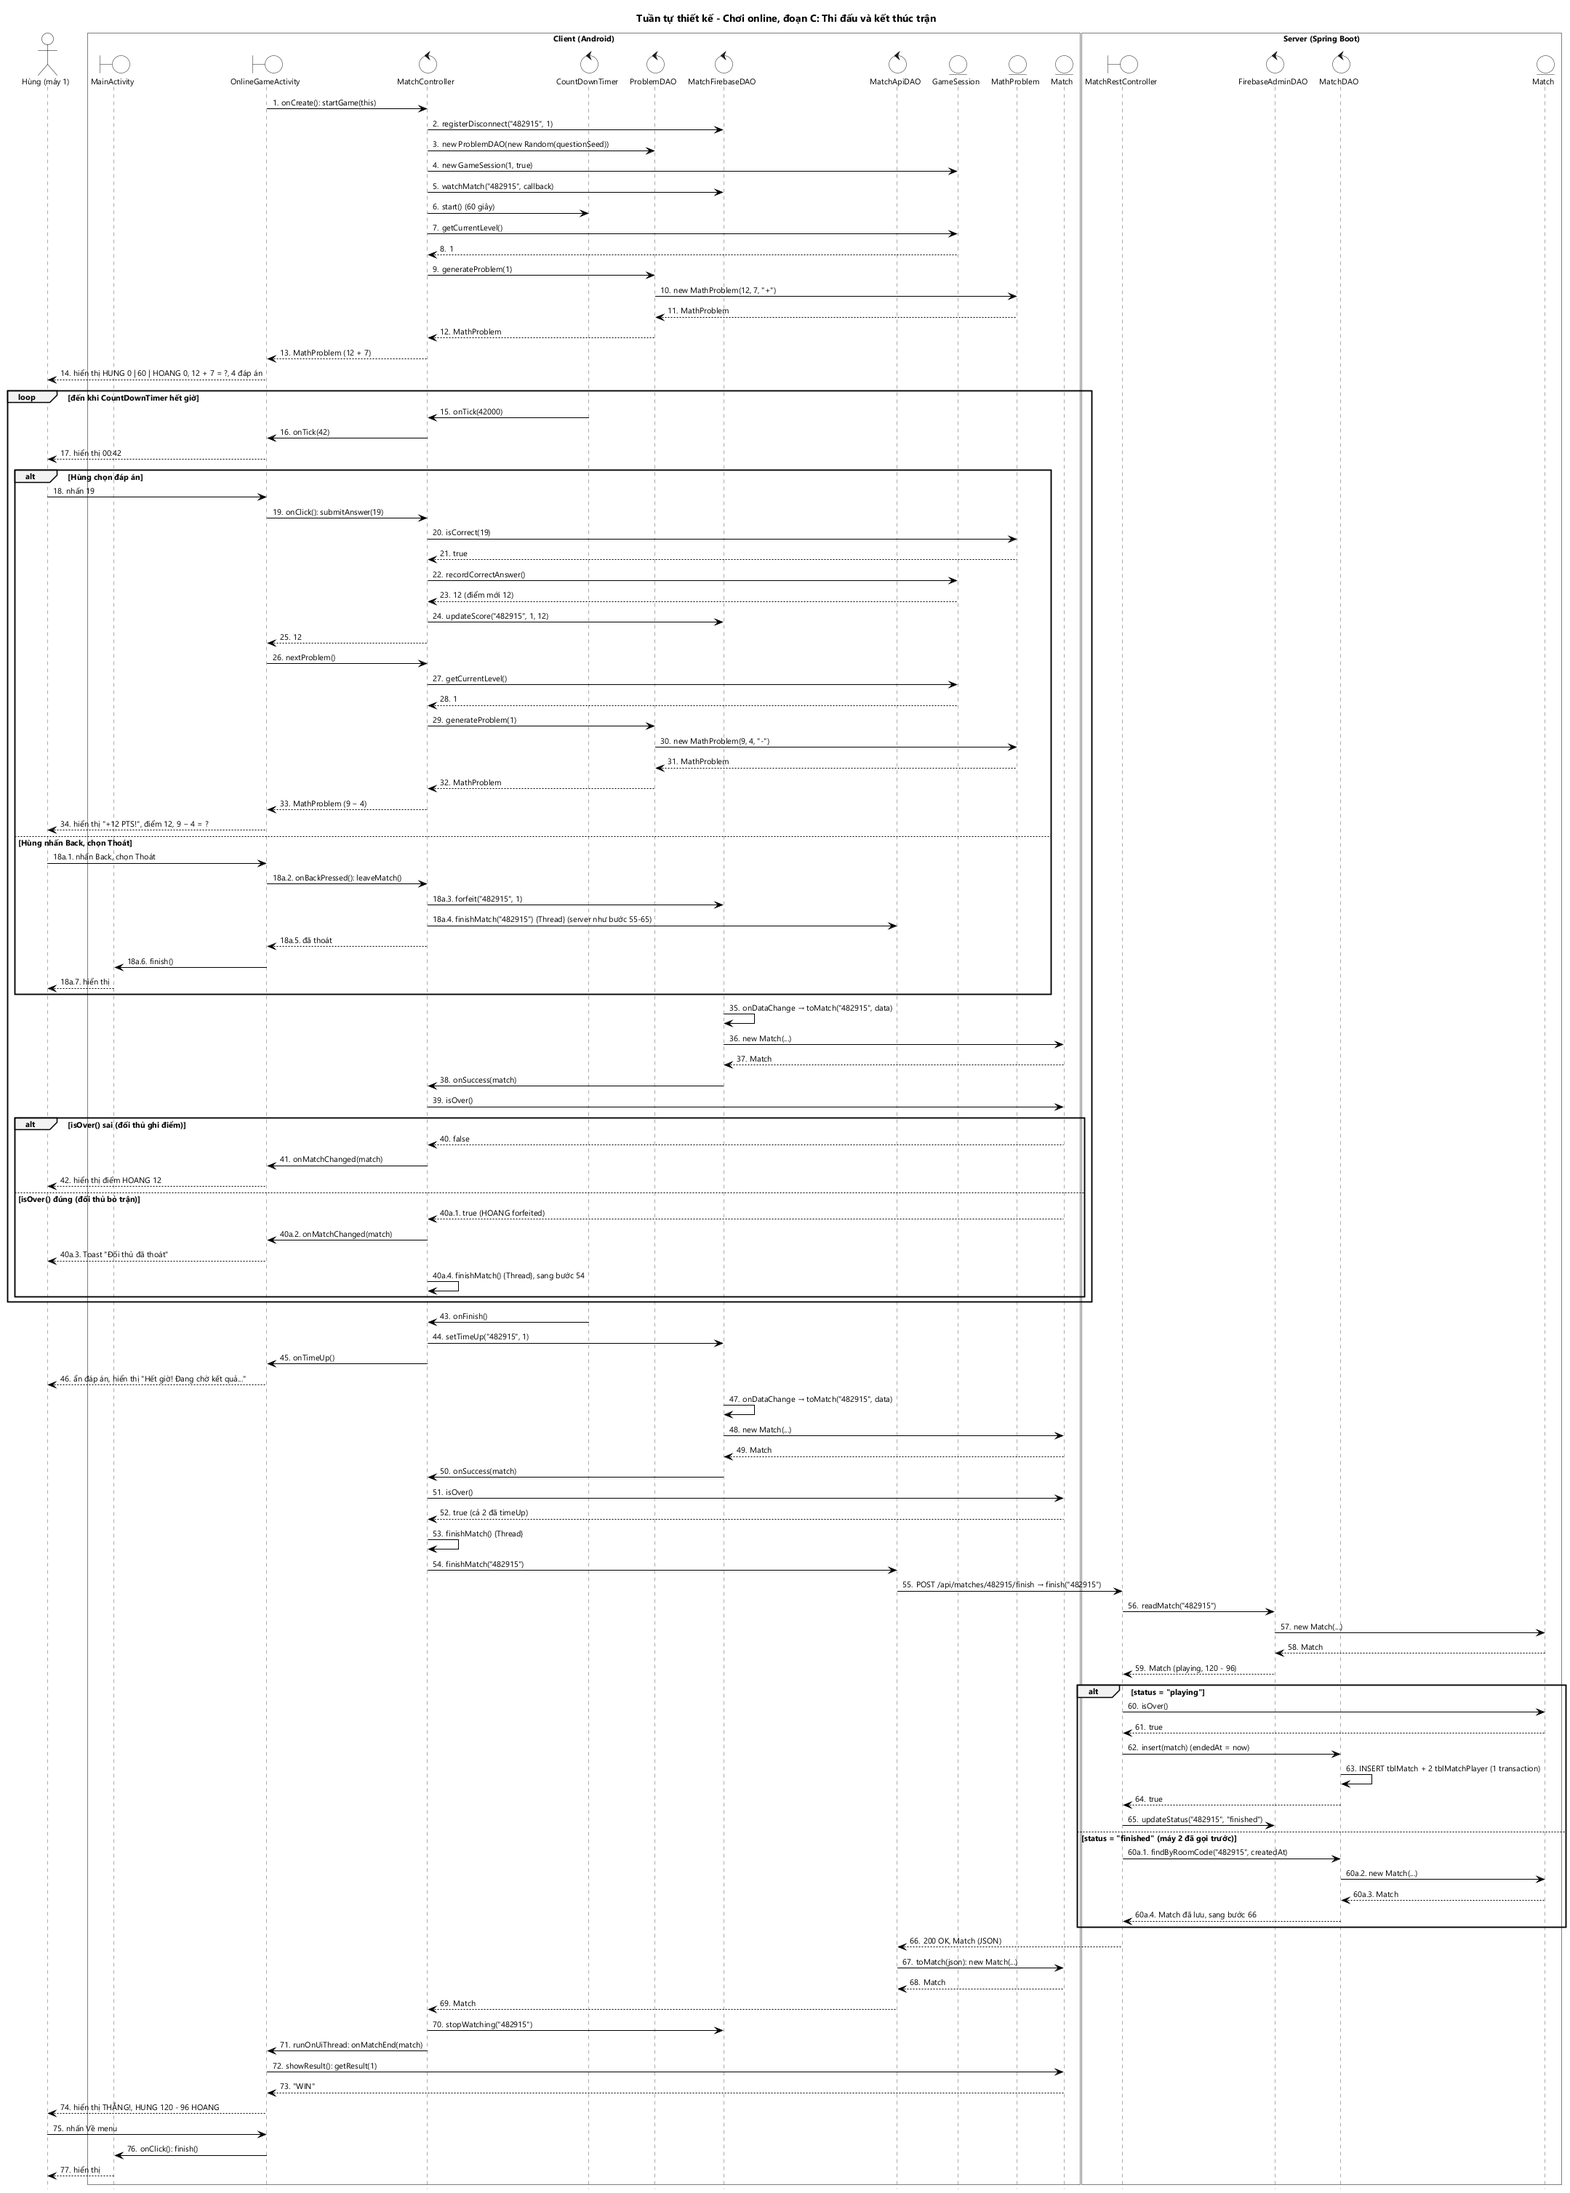
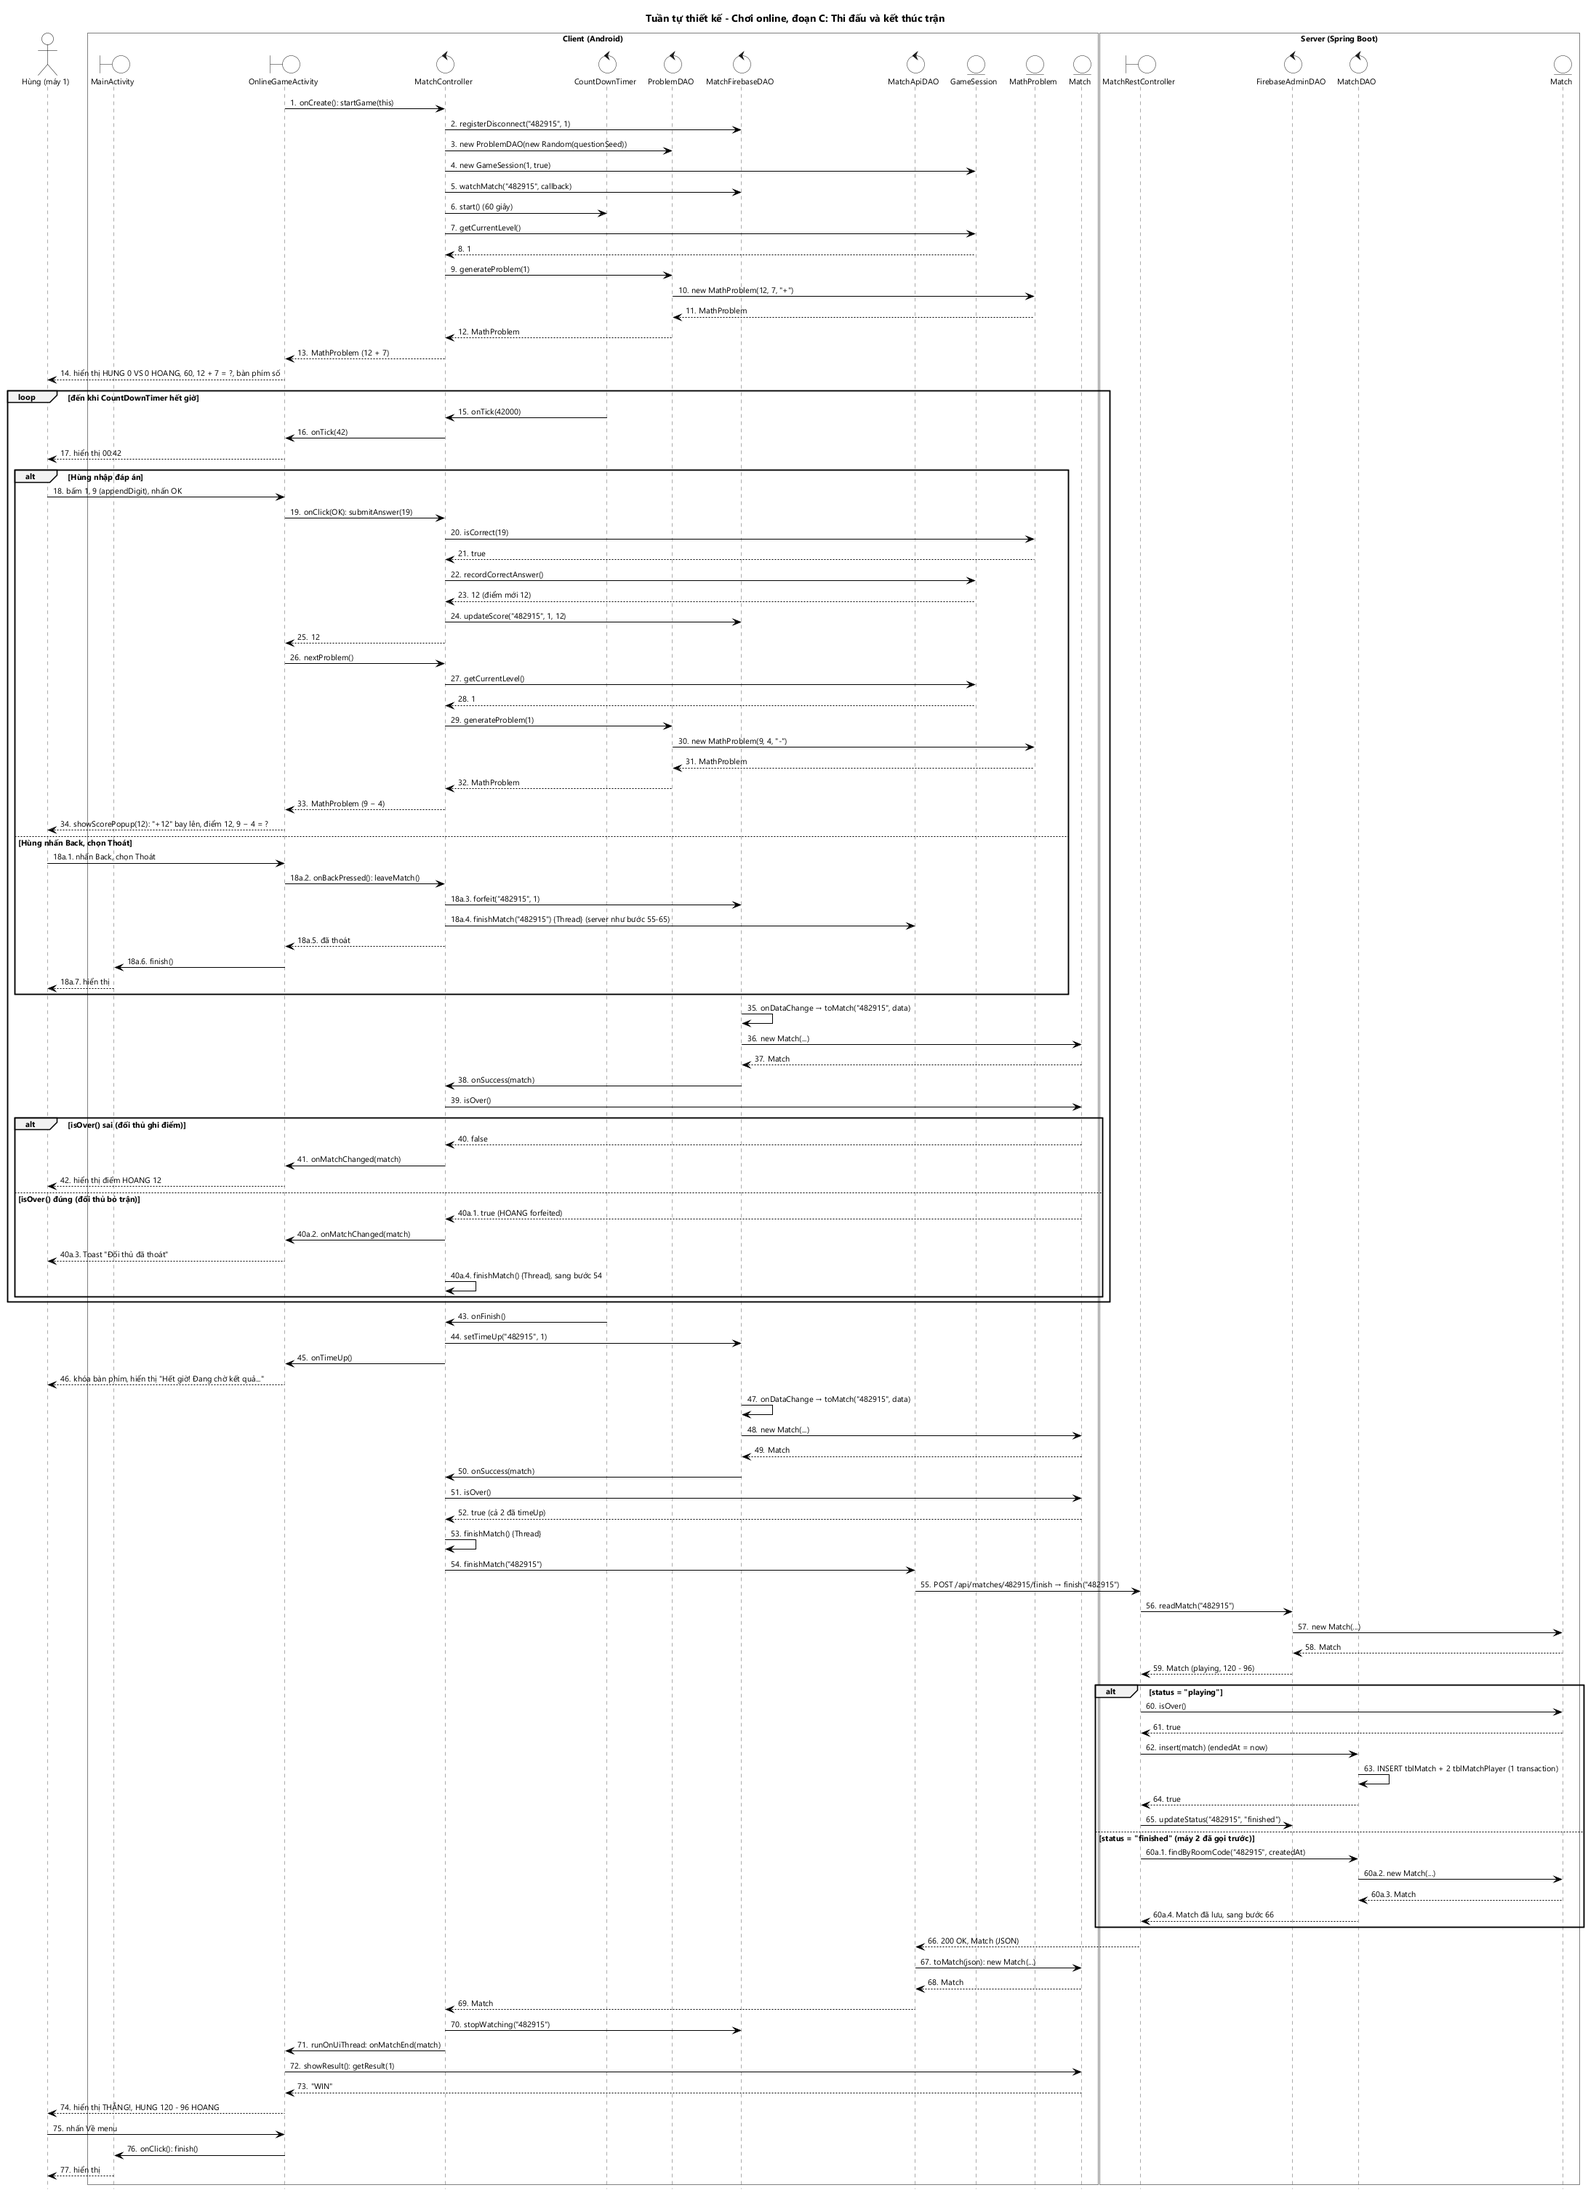
docs(M4-01,M4-03): màn thi đấu online dùng bàn phím số, hàng điểm VS và chữ điểm bay lên

diff --git a/docs/hung/5-kich-ban-v3.md b/docs/hung/5-kich-ban-v3.md
@@ -127,16 +127,16 @@ Quy ước:
 7. `startGame` gọi `getCurrentLevel()` của `GameSession`.
 8. `GameSession` trả về mức `1`.
 9. `startGame` gọi `generateProblem(1)` của `ProblemDAO`.
-10. `generateProblem` gọi lớp `MathProblem` để đóng gói câu hỏi `12 + 7` với 4 phương án.
+10. `generateProblem` gọi lớp `MathProblem` để đóng gói câu hỏi `12 + 7`.
 11. Lớp `MathProblem` trả đối tượng cho `generateProblem`.
 12. `generateProblem` trả `MathProblem` cho `startGame`; `startGame` lưu nó làm câu hiện tại của `GameSession`.
 13. `startGame` trả `MathProblem` cho `onCreate`.
-14. `OnlineGameActivity` (hàm `showProblem`) hiển thị cho Hùng: HUNG `0`, đồng hồ `60`, HOANG `0`, `12 + 7 = ?` và 4 nút đáp án.
+14. `OnlineGameActivity` (hàm `showProblem`) hiển thị cho Hùng: hàng điểm HUNG `0` VS `0` HOANG, đồng hồ `60`, `12 + 7 = ?` và bàn phím số.
 15. Mỗi giây, `CountDownTimer` gọi `onTick(42000)` của `MatchController`.
 16. `MatchController` gọi `onTick(42)` của `OnlineGameActivity`.
 17. `OnlineGameActivity` hiển thị đồng hồ `00:42`.
-18. Hùng nhấn nút `19`.
-19. `onClick` của `OnlineGameActivity` gọi `submitAnswer(19)` của `MatchController`.
+18. Hùng bấm `1`, `9` rồi nhấn OK. Mỗi lần bấm số, `onClick` gọi `appendDigit` của chính Activity để cập nhật `txtAnswer` (`12 + 7 = 19`); thao tác này chỉ nằm trong giao diện nên gộp vào bước này.
+19. `onClick` của nút OK đọc số `19` từ `txtAnswer` và gọi `submitAnswer(19)` của `MatchController`.
 20. `submitAnswer` gọi `isCorrect(19)` của câu hiện tại (`MathProblem`).
 21. `MathProblem` trả về `true`.
 22. `submitAnswer` gọi `recordCorrectAnswer()` của `GameSession`.
@@ -151,7 +151,7 @@ Quy ước:
 31. Lớp `MathProblem` trả đối tượng cho `generateProblem`.
 32. `generateProblem` trả `MathProblem` cho `nextProblem`.
 33. `nextProblem` trả `MathProblem` cho `onClick`.
-34. `OnlineGameActivity` hiển thị cho Hùng "+12 PTS!", điểm `12` và `9 − 4 = ?`.
+34. `OnlineGameActivity` gọi `showScorePopup(12)` cho chữ "+12" bay lên từ điểm của mình, hiển thị điểm `12`, xóa `txtAnswer` và hiện `9 − 4 = ?`.
 35. Khi Hoàng ghi điểm, node thay đổi. Callback `onDataChange` của `MatchFirebaseDAO` gọi `toMatch("482915", data)`.
 36. `toMatch` gọi lớp `Match` để đóng gói trận mới nhất.
 37. Lớp `Match` trả đối tượng cho `toMatch`.
@@ -161,11 +161,11 @@ Quy ước:
 41. `MatchController` gọi `onMatchChanged(match)` của `OnlineGameActivity`.
 42. `OnlineGameActivity` hiển thị điểm HOANG `12`.
 
-    *(Các bước 15–42 lặp lại đến khi `CountDownTimer` hết giờ. Trả lời sai thì bước 22 là `recordWrongAnswer()`, không có bước 24, và dòng phản hồi là "MISS!".)*
+    *(Các bước 15–42 lặp lại đến khi `CountDownTimer` hết giờ. Trả lời sai thì bước 22 là `recordWrongAnswer()`, không có bước 24, và `showScorePopup(0)` hiện chữ "MISS" màu đỏ.)*
 43. Hết 60 giây, `CountDownTimer` gọi `onFinish()` của `MatchController`.
 44. `onFinish` gọi `setTimeUp("482915", 1)` của `MatchFirebaseDAO`.
 45. `onFinish` gọi `onTimeUp()` của `OnlineGameActivity`.
-46. `OnlineGameActivity` ẩn 4 nút đáp án, hiển thị "Hết giờ! Đang chờ kết quả...".
+46. `OnlineGameActivity` khóa bàn phím số, `txtTimer` hiển thị "Hết giờ! Đang chờ kết quả...".
 47. Khi máy 2 cũng ghi `timeUp`, callback `onDataChange` gọi `toMatch("482915", data)`.
 48. `toMatch` gọi lớp `Match` để đóng gói trận.
 49. Lớp `Match` trả đối tượng cho `toMatch`.

diff --git a/docs/hung/2-lop-phan-tich.md b/docs/hung/2-lop-phan-tich.md
@@ -29,7 +29,7 @@ Pha phân tích chưa có kiểu dữ liệu, chưa có DAO, Controller, Activit
 | 1 | Giao diện chính | `MainView` | `outDisplayName`: dòng "Xin chào, HUNG"<br>`subPlayOnline`: nút Chơi online |
 | 2, 7 | Giao diện chơi online | `OnlineView` | `subCreateRoom`: nút Tạo phòng<br>`inRoomCode`: ô nhập mã phòng<br>`subJoinRoom`: nút Vào phòng |
 | 4, 9, 10 | Giao diện phòng chờ | `LobbyView` | `outRoomCode`: mã phòng chữ lớn<br>`outStatus`: dòng trạng thái ("Đang chờ đối thủ...", "Trận đấu bắt đầu!")<br>`outOpponentName`: tên đối thủ<br>`subCancel`: nút Hủy |
-| 11–15 | Giao diện thi đấu | `OnlineGameView` | `outMyName`, `outMyScore`: tên và điểm của mình<br>`outTimer`: đồng hồ đếm ngược<br>`outOpponentName`, `outOpponentScore`: tên và điểm đối thủ<br>`outProblem`: câu hỏi<br>`outsubAnswers`: 4 nút đáp án, vừa hiện phương án vừa bấm được<br>`outFeedback`: dòng phản hồi "+12 PTS!" / "MISS!" / "Hết giờ! Đang chờ kết quả..." |
+| 11–15 | Giao diện thi đấu | `OnlineGameView` | `outMyName`, `outMyScore`: tên và điểm của mình (nổi bật)<br>`outOpponentName`, `outOpponentScore`: tên và điểm đối thủ<br>`outScorePopup`: chữ "+12" / "MISS" bay lên từ điểm của mình rồi biến mất<br>`outTimer`: đồng hồ đếm ngược, hết giờ thì hiện "Hết giờ! Đang chờ kết quả..."<br>`outProblem`: câu hỏi<br>`inAnswer`: số đang nhập, hiện sau dấu `=`<br>`subDigits`: 10 nút số 0–9<br>`subBackspace`: nút xóa số cuối<br>`subSubmit`: nút OK |
 | 17 | Giao diện kết quả | `MatchResultView` | `outResult`: THẮNG! / THUA! / HÒA!<br>`outScoreLine`: tỉ số "HUNG 120 - 96 HOANG"<br>`subBackToMenu`: nút Về menu |
 
 Không đề xuất lớp View cho:
@@ -113,6 +113,6 @@ Mọi thành phần giao diện nêu trong kịch bản v1 đều có ở lớp 
 | Nút Chơi online, nút Lịch sử đấu | `MainView.subPlayOnline`, `MainView.subHistory` |
 | Nút Tạo phòng, ô mã phòng, nút Vào phòng | `OnlineView.subCreateRoom`, `inRoomCode`, `subJoinRoom` |
 | Mã phòng, trạng thái, đối thủ, nút Hủy | `LobbyView.outRoomCode`, `outStatus`, `outOpponentName`, `subCancel` |
-| Mình, đồng hồ, đối thủ, câu hỏi, 4 nút đáp án, dòng phản hồi | `OnlineGameView.outMyName`, `outMyScore`, `outTimer`, `outOpponentName`, `outOpponentScore`, `outProblem`, `outsubAnswers`, `outFeedback` |
+| Hàng điểm, chữ bay "+12" / "MISS", đồng hồ, câu hỏi, số đang nhập, bàn phím số, nút xóa, nút OK | `OnlineGameView.outMyName`, `outMyScore`, `outOpponentName`, `outOpponentScore`, `outScorePopup`, `outTimer`, `outProblem`, `inAnswer`, `subDigits`, `subBackspace`, `subSubmit` |
 | Dòng kết quả, tỉ số, nút Về menu | `MatchResultView.outResult`, `outScoreLine`, `subBackToMenu` |
 | Danh sách trận (hoặc "Chưa có trận nào") | `HistoryView.outListMatch` |

diff --git a/docs/hung/3-kich-ban-v2.md b/docs/hung/3-kich-ban-v2.md
@@ -76,21 +76,21 @@ Quy ước:
 
 1. `OnlineGameView` gọi phương thức `watchMatch()` của lớp `Match` để theo dõi điểm đối thủ.
 2. `OnlineGameView` gọi phương thức `generateProblem()` của lớp `MathProblem`, dùng mã đồng bộ câu hỏi của trận và mức 1.
-3. Lớp `MathProblem` trả về câu hỏi `12 + 7` với 4 phương án `17`, `19`, `21`, `18`.
-4. `OnlineGameView` hiển thị cho Hùng: HUNG `0`, đồng hồ `60`, HOANG `0`, câu hỏi và 4 nút đáp án.
-5. Hùng nhấn nút `19` trên `OnlineGameView`.
+3. Lớp `MathProblem` trả về câu hỏi `12 + 7`.
+4. `OnlineGameView` hiển thị cho Hùng: hàng điểm HUNG `0` VS `0` HOANG, đồng hồ `60`, câu hỏi `12 + 7 = ?` và bàn phím số.
+5. Hùng bấm `1`, `9` rồi nhấn OK trên `OnlineGameView`. Việc bấm số và nút xóa chỉ thay đổi số đang nhập trên giao diện, không gọi thực thể nên không tách thành bước riêng.
 6. `OnlineGameView` gọi phương thức `submitAnswer()` của lớp `GameSession` với đáp án `19`.
 7. Lớp `GameSession` chấm đúng, cộng `12` điểm, trả về điểm mới `12` cho `OnlineGameView`.
 8. `OnlineGameView` gọi phương thức `updateScore()` của lớp `MatchPlayer` với điểm `12`.
 9. Lớp `MatchPlayer` ghi điểm mới để máy đối thủ thấy, rồi trả về cho `OnlineGameView`.
 10. `OnlineGameView` gọi phương thức `generateProblem()` của lớp `MathProblem`.
 11. Lớp `MathProblem` trả về câu hỏi tiếp theo `9 − 4`.
-12. `OnlineGameView` hiển thị cho Hùng "+12 PTS!", điểm `12` và câu hỏi mới.
+12. `OnlineGameView` cho chữ "+12" bay lên từ điểm của mình, hiển thị điểm `12`, xóa số đã nhập và hiện câu hỏi mới.
 13. Khi Hoàng trả lời đúng, lớp `Match` trả về cho `OnlineGameView` trận mới với điểm HOANG = `12` (từ lời theo dõi ở bước 1).
 14. `OnlineGameView` hiển thị cho Hùng điểm đối thủ `12`.
 
     *(Lặp lại các bước 5–14 cho đến khi hết 60 giây.)*
-15. Hết 60 giây, `OnlineGameView` ẩn 4 nút đáp án và hiển thị cho Hùng "Hết giờ! Đang chờ kết quả...".
+15. Hết 60 giây, `OnlineGameView` khóa bàn phím số và hiển thị cho Hùng "Hết giờ! Đang chờ kết quả..." ở chỗ đồng hồ.
 16. `OnlineGameView` gọi phương thức `finishMatch()` của lớp `Match`.
 17. Khi cả 2 máy đã hết giờ, lớp `Match` xác định trận đã xong, lưu trận vào lịch sử đấu, rồi trả về trận HUNG `120` – HOANG `96` cho `OnlineGameView`.
 18. `OnlineGameView` gọi phương thức `getResult()` của lớp `Match` cho HUNG.

diff --git a/ISSUES_PLAN.md b/ISSUES_PLAN.md
@@ -455,7 +455,11 @@ matches/{roomCode}                  // mã phòng 6 chữ số
     - Nếu `Match.isOver()` sai: trả 409 "Trận chưa kết thúc".
     - Nếu chưa lưu: `MatchDAO.insert(match)` (1 dòng `tblMatch` + 2 dòng `tblMatchPlayer`), `FirebaseAdminDAO.updateStatus(roomCode, "finished")`.
   - **Luật thắng thua là hàm Java thuần (D7):** `Match.getResult(int playerId): String` trả `WIN` / `LOSE` / `DRAW`: ai `forfeited` thì thua; không ai bỏ thì so điểm. Unit test `MatchResultTest` (phía server) cho 5 trường hợp: thắng điểm, thua điểm, hòa, đối thủ bỏ khi đang dẫn điểm, mình bỏ khi đang dẫn điểm; thêm 3 trường hợp `isOver()`: chưa ai hết giờ → `false`, mới 1 người hết giờ → `false`, có người bỏ trận → `true`.
-  - **`OnlineGameActivity`:** đồng hồ 60s, phép tính, lưới 2x2 nút đáp án, điểm MÌNH vs ĐỐI THỦ, overlay THẮNG / THUA / HÒA có tỉ số và nút "Về menu".
+  - **`OnlineGameActivity`** (bố cục chi tiết ở `docs/hung/4-lop-thiet-ke.md` mục 1.1):
+    - Hàng điểm `MÌNH 36 VS 24 ĐỐI THỦ`, điểm của mình nổi bật; chữ `+12` / `MISS` bay lên từ điểm của mình rồi mờ dần.
+    - Đồng hồ 60s ở giữa; phép tính kèm số đang nhập.
+    - Bàn phím số `0`–`9`, nút xóa chỉ có icon ⌫ (`ImageButton`), nút OK; tối đa 3 chữ số. Online **không** dùng 4 phương án.
+    - Overlay THẮNG / THUA / HÒA có tỉ số và nút "Về menu".
 - **Requirement:**
   - 2 máy thấy cùng dãy câu.
   - Điểm đối thủ cập nhật dưới 1 giây.

diff --git a/docs/chung/02-lop-thuc-the.md b/docs/chung/02-lop-thuc-the.md
@@ -219,7 +219,7 @@ Mã nguồn PlantUML: [`lop-thuc-the-thiet-ke.puml`](lop-thuc-the-thiet-ke.puml)
 | `MathProblem` | `operand1`, `operand2` | Toán hạng bên trái, bên phải của phép tính | Số nguyên ≥ 1 |
 | `MathProblem` | `operator` | Toán tử | `"+"`, `"-"`, `"×"` |
 | `MathProblem` | `correctAnswer` | Kết quả đúng của phép tính | ≥ 0 |
-| `MathProblem` | `answerOptions` | 4 phương án hiển thị trên 4 nút, đã xáo trộn, có chứa `correctAnswer` | 4 số khác nhau, ≥ 0 |
+| `MathProblem` | `answerOptions` | 4 phương án hiển thị trên 4 nút ở chế độ offline, đã xáo trộn, có chứa `correctAnswer`. Chế độ online không hiển thị (người chơi tự nhập số) nhưng vẫn được sinh để 2 máy dùng chung một dãy số ngẫu nhiên | 4 số khác nhau, ≥ 0 |
 | `GameSession` | `difficulty` | Độ khó người chơi chọn, cũng là mức bắt đầu | 1 = Dễ, 2 = Trung bình, 3 = Khó; trận online luôn là 1 |
 | `GameSession` | `onlineMode` | Ván này là trận online hay không | `true`: không trừ mạng |
 | `GameSession` | `questionsAsked` | Số câu đã ra trong ván | ≥ 0 |
